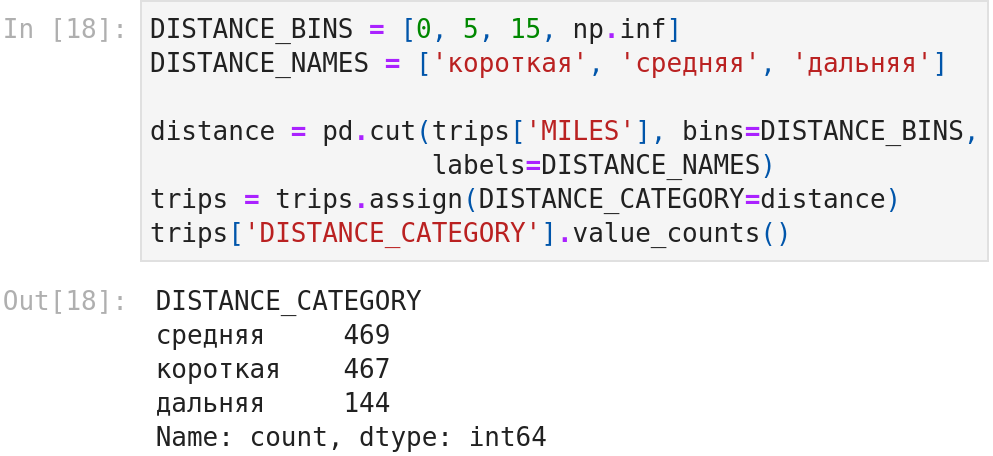
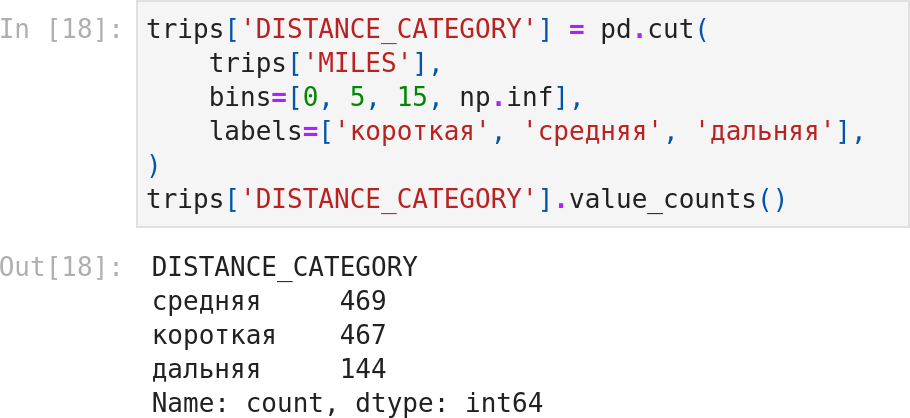
upd lab-2 & add lab-3 facade

diff --git a/lab-2/main.tex b/lab-2/main.tex
@@ -80,7 +80,7 @@ matplotlib: построить круговую диаграмму долей ц
 
 В лабораторной работе 1 скорость в заданиях не использовалась, и завышенные значения в ней не исправлялись: длительность TIME округлена до минут, и у поездок длительностью 1–3 минуты скорость получается слишком большой. В этой работе столбец SPEED участвует в анализе, поэтому найдены поездки со скоростью выше 100 миль в час, что для такси нереально (\figref{too_fast}).
 
-\suaiimg[0.73\textwidth]{too_fast}{Поездки со скоростью выше 100 миль в час}
+\suaiimg[0.75\textwidth]{too_fast}{Поездки со скоростью выше 100 миль в час}
 
 Таких поездок 15. Почти у всех длительность составляет 1–8 минут при расстоянии 6–33 мили, например 15,1 мили за 1 минуту. Длительность записана с ошибкой, а вместе с ней ошибочны скорость и стоимость, которая, как показано в разделе~\ref{sec:correlation}, вычисляется по длительности. Восстановить эти значения нельзя, поэтому 15 поездок удалены. Статистика после удаления показана на~\figref{describe_clean}.
 
@@ -113,14 +113,16 @@ n | количество значений
 Правило опирается на межквартильный размах, поэтому выбросы не влияют на ширину интервала. Гистограммы построены в обычной и в логарифмической шкале (\lstref{histograms}). Для логарифмической шкалы правило применено к логарифмам значений.
 
 \begin{code}[Python, histograms]{Построение гистограмм}
-for column, linear_ax, log_ax in zip(NUMERIC, *axes):
+for i, column in enumerate(NUMERIC):
     values = trips[column]
-    linear_bins = np.histogram_bin_edges(values, bins='fd')
-    log_bins = 10 ** np.histogram_bin_edges(np.log10(values), bins='fd')
 
-    linear_ax.hist(values, bins=linear_bins, linewidth=0)
-    log_ax.hist(values, bins=log_bins, linewidth=0)
-    log_ax.set_xscale('log')
+    bins = np.histogram_bin_edges(values, bins='fd')
+    axes[0, i].hist(values, bins=bins, linewidth=0)
+
+    log_bins = 10 ** np.histogram_bin_edges(np.log10(values),
+                                            bins='fd')
+    axes[1, i].hist(values, bins=log_bins, linewidth=0)
+    axes[1, i].set_xscale('log')
 \end{code}
 
 Полученные гистограммы показаны на~\figref{histograms}.
@@ -160,13 +162,12 @@ for column, linear_ax, log_ax in zip(NUMERIC, *axes):
 Код задания 1 приведён в~\lstref{task1}, результат — на~\figref{task1}.
 
 \begin{code}[Python, task1]{Задание 1}
-purpose_counts = (trips.groupby(['CATEGORY', 'PURPOSE'])
-                       .size()
-                       .reset_index(name='count')
-                       .query('count > 2'))
+trip_counts = trips.groupby(['CATEGORY', 'PURPOSE']).size()
+trip_counts = trip_counts.reset_index(name='count')
+trip_counts = trip_counts[trip_counts['count'] > 2]
 
 fig, ax = plt.subplots(figsize=(14, 6))
-sns.barplot(data=purpose_counts, x='PURPOSE', y='count',
+sns.barplot(data=trip_counts, x='PURPOSE', y='count',
             hue='CATEGORY', ax=ax)
 \end{code}
 
@@ -181,8 +182,8 @@ mean_miles = trips.pivot_table(index='PURPOSE', values='MILES',
                                aggfunc='mean')
 
 ax = mean_miles.plot(style='*', color='green', markersize=18,
-                     figsize=(14, 7), xticks=range(len(mean_miles)),
-                     rot=90)
+                     figsize=(14, 7), rot=90,
+                     xticks=range(len(mean_miles)))
 \end{code}
 
 \suaiimg[\textwidth]{task2}{Среднее число пройденных миль по целям поездки}
@@ -192,19 +193,20 @@ ax = mean_miles.plot(style='*', color='green', markersize=18,
 Код задания 3 приведён в~\lstref{task3}, результат — на~\figref{task3}.
 
 \begin{code}[Python, task3]{Задание 3}
-purpose_share = (trips['PURPOSE'].value_counts()
-                                 .loc[lambda counts: counts >= MIN_TRIPS]
-                                 .sort_index())
+trips_per_purpose = trips['PURPOSE'].value_counts()
+purpose_share = trips_per_purpose[trips_per_purpose >= 5]
+purpose_share = purpose_share.sort_index()
 
 plt.figure(figsize=(20, 10))
-plt.pie(purpose_share, labels=purpose_share.index, autopct='%1.1f%%',
-        textprops={'size': 'x-large'}, startangle=90)
+plt.pie(purpose_share, labels=purpose_share.index,
+        autopct='%1.1f%%', textprops={'size': 'x-large'},
+        startangle=90)
 plt.legend(fontsize=16, bbox_to_anchor=(1, 1))
 \end{code}
 
 \suaiimg[0.9\textwidth]{task3}{Распределение целей поездки}
 
-Из диаграммы убраны Moving, Airport/Travel, Charity (\$) и Commute — вместе 8 поездок. Почти половину диаграммы (45,3~\%) занимают поездки без цели. Среди известных целей чаще всего встречаются Meeting (16,6~\%), Meal/Entertain (13,5~\%) и Errand/Supplies (10,3~\%). На Customer Visit приходится 8,6~\%, на Temporary Site — 4,1~\%, на Between Offices — 1,6~\%.
+Цели расположены по алфавиту. Из диаграммы убраны Moving, Airport/Travel, Charity (\$) и Commute — вместе 8 поездок. Почти половину диаграммы (45,3~\%) занимают поездки без цели. Среди известных целей чаще всего встречаются Meeting (16,6~\%), Meal/Entertain (13,5~\%) и Errand/Supplies (10,3~\%). На Customer Visit приходится 8,6~\%, на Temporary Site — 4,1~\%, на Between Offices — 1,6~\%.
 
 \subsection{Hexagonal binning plot}
 
@@ -220,7 +222,7 @@ plt.legend(fontsize=16, bbox_to_anchor=(1, 1))
 
 \suaiimg[\textwidth]{boxplot_price}{Диаграмма размаха стоимости поездки}
 
-\suaiimg[0.67\textwidth]{price_quartiles}{Квартили и граница выбросов стоимости}
+\suaiimg[0.68\textwidth]{price_quartiles}{Квартили и граница выбросов стоимости}
 
 Половина поездок стоит от 1087 до 2437, медиана 1611 расположена ближе к левому краю ящика. Левый ус короткий и заканчивается на минимуме 412, выбросов снизу нет. Справа за границей 4462 лежат 59 выбросов (5,5~\% поездок), самые дорогие — две поездки около 25~000. Это не ошибки: 53 из 59 выбросов — поездки дальше 15 миль, а две самые дорогие поездки длились около 5,5 часа. Распределение стоимости сильно скошено вправо.
 
@@ -229,17 +231,16 @@ plt.legend(fontsize=16, bbox_to_anchor=(1, 1))
 По столбцу MILES добавлена категория дальности: короткая — до 5 миль, средняя — от 5 до 15 миль, дальняя — больше 15 миль (\lstref{distance}). Границы близки к медиане (6 миль) и 90-му процентилю (17 миль) расстояния.
 
 \begin{code}[Python, distance]{Категория дальности поездки}
-DISTANCE_BINS = [0, 5, 15, np.inf]
-DISTANCE_NAMES = ['короткая', 'средняя', 'дальняя']
-
-distance = pd.cut(trips['MILES'], bins=DISTANCE_BINS,
-                  labels=DISTANCE_NAMES)
-trips = trips.assign(DISTANCE_CATEGORY=distance)
+trips['DISTANCE_CATEGORY'] = pd.cut(
+    trips['MILES'],
+    bins=[0, 5, 15, np.inf],
+    labels=['короткая', 'средняя', 'дальняя'],
+)
 \end{code}
 
 Количество поездок в каждой категории показано на~\figref{distance_counts}. Коротких и средних поездок почти поровну (467 и 469), дальних — 144.
 
-\suaiimg[0.58\textwidth]{distance_counts}{Количество поездок по категориям дальности}
+\suaiimg[0.53\textwidth]{distance_counts}{Количество поездок по категориям дальности}
 
 Диаграммы размаха построены средствами seaborn для расстояния и, для сравнения, для стоимости (\figref{boxplot_distance}). Обе оси значений логарифмические.
 

diff --git a/lab-3/main.tex b/lab-3/main.tex
@@ -1,0 +1,38 @@
+\documentclass[a4paper,14pt]{extarticle}
+\usepackage{suai-report}
+
+\suaisetup{
+  department   = 41,
+  teacher-post = Старший преподаватель,
+  teacher      = В. В. Боженко,
+  type         = Отчет о лабораторной работе,
+  number       = 3,
+  title        = Название работы,
+  course       = Введение в анализ данных,
+  group        = 4414,
+  student      = Г. В. Моисеев,
+  date         = today,
+}
+
+\begin{document}
+
+\maketitle
+\suaitoc
+
+\suaiintro
+
+Цель работы —
+
+\suaitasks
+первая задача
+вторая задача
+
+\section{Ход работы}
+
+
+
+\suaiconclusion
+
+В ходе работы
+
+\end{document}
